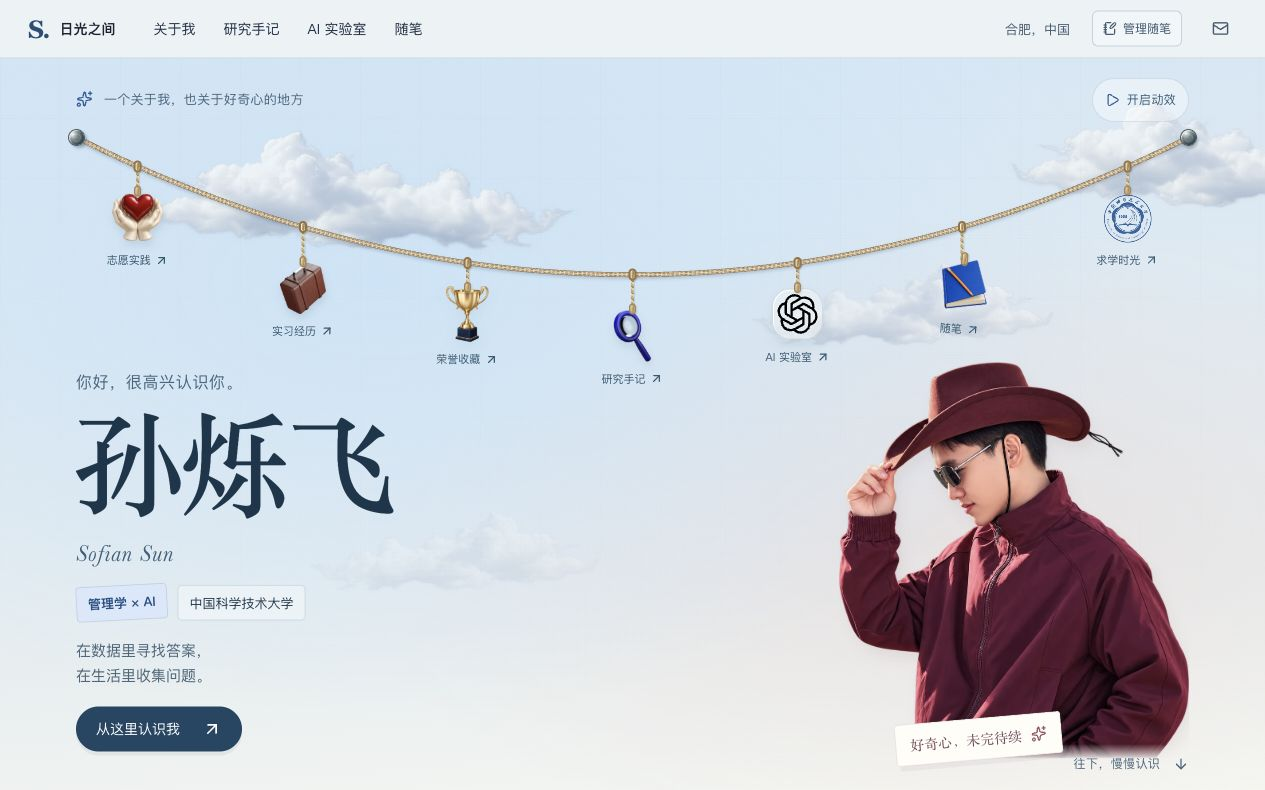
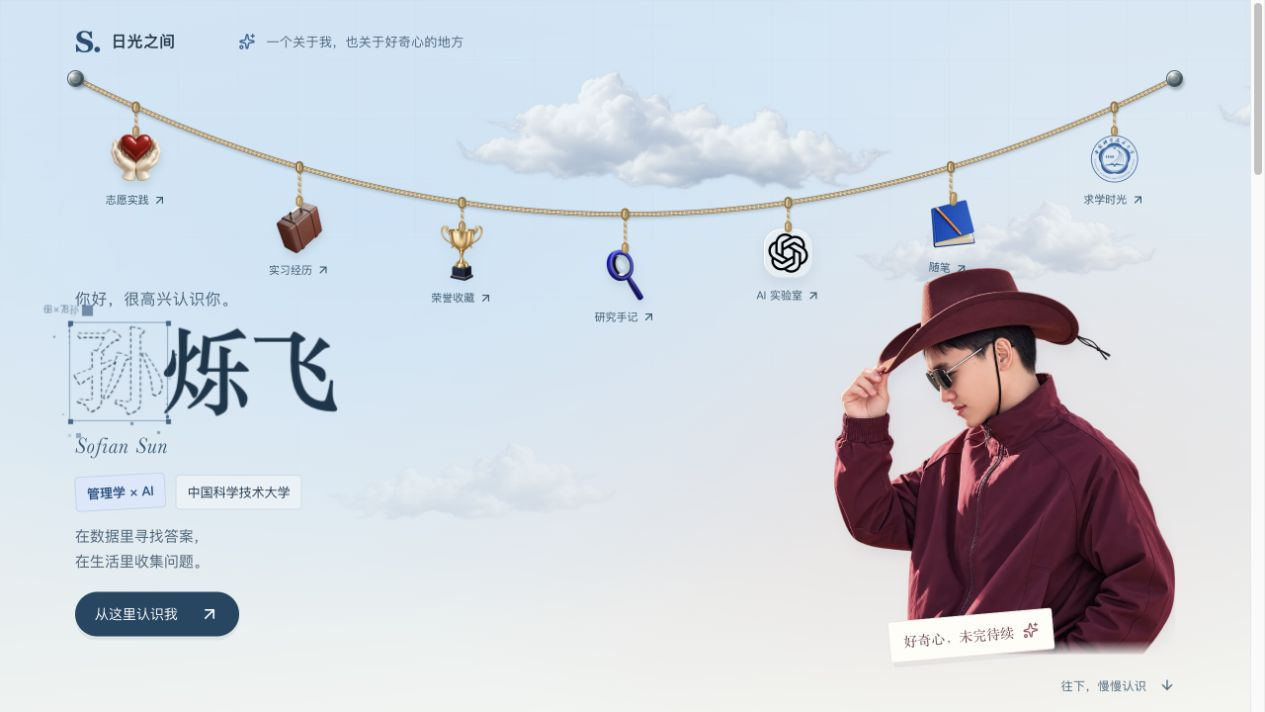
Refine homepage scenes, snap scrolling and journal writing entrance

diff --git a/app/home-scene.tsx b/app/home-scene.tsx
@@ -4,6 +4,7 @@ import {ArrowDown,ArrowUpRight,BookOpen,ChevronRight,FlaskConical,Sparkles,UserR
 import {labProjects} from "./project-data";
 import TechText from "@/components/TechText";
 import SkyScene from "@/components/SkyScene";
+import Link from "@/components/SectionLink";
 import {useMotionPreferences} from '@/components/MotionPreferences';
 import "./home-scene.css";
 
@@ -26,9 +27,8 @@ export default function HomeScene({open}:{open:(id:string,project?:string)=>void
  const {disabled}=useMotionPreferences();
  const paused=disabled;
  const pausedRef=useRef(paused);
- pausedRef.current=paused;
  const controlRef=useRef<()=>void>(()=>{});
- useEffect(()=>{controlRef.current();},[paused]);
+ useEffect(()=>{pausedRef.current=paused;controlRef.current();},[paused]);
  useEffect(()=>{
   let cancelled=false;let dispose=()=>{};
   async function setup(){
@@ -103,8 +103,8 @@ export default function HomeScene({open}:{open:(id:string,project?:string)=>void
   <section className="home-hero" aria-label="认识孙烁飞">
    <SkyScene paused={paused}/>
    <div className="scene-paper-grid" aria-hidden="true"/>
-   <div className="hero-topline"><span><Sparkles size={17}/>一个关于我，也关于好奇心的地方</span></div>
-    <div className="orbit-wire"><svg className="scene-orbit-line" viewBox="0 0 1260 300" fill="none" aria-hidden="true">
+   <div className="hero-topline"><Link className="brand hero-brand" href="/" aria-label="日光之间首页"><span className="brand-mark">S.</span><b>日光之间</b></Link><span className="hero-tagline"><Sparkles size={17}/>一个关于我，也关于好奇心的地方</span></div>
+    <div className="orbit-wire"><svg className="scene-orbit-line" viewBox="0 0 1260 300" preserveAspectRatio="none" fill="none" aria-hidden="true">
      <defs><filter id="cord-shadow" x="-10%" y="-20%" width="120%" height="150%"><feDropShadow dx="0" dy="2" stdDeviation="1.7" floodColor="#24435c" floodOpacity=".24"/></filter></defs>
      <g filter="url(#cord-shadow)"><path d={cordPath} stroke="#8b7351" strokeWidth="5.5"/><path d={cordPath} stroke="#e2cdab" strokeWidth="4"/><path d={cordPath} stroke="#aa8d66" strokeWidth="3.5" strokeDasharray="1 4"/><path d={cordPath} stroke="#f0e1c8" strokeWidth=".8"/></g>
     </svg><span className="cord-nail cord-nail-left" aria-hidden="true"/><span className="cord-nail cord-nail-right" aria-hidden="true"/>
@@ -137,11 +137,12 @@ export default function HomeScene({open}:{open:(id:string,project?:string)=>void
    <nav className="journey-links journey-links-main" aria-label="求学、工作与研究经历">{paths.slice(0,5).map(renderJourneyLink)}</nav>
    <nav className="journey-links journey-extra" aria-label="AI 作品与随笔">{paths.slice(5).map(renderJourneyLink)}</nav>
   </section>
-  <section className="home-work" aria-labelledby="home-work-title">
+  <section className="home-work" id="works" aria-labelledby="home-work-title">
    <header className="home-section-header"><div><span className="section-kicker"><FlaskConical size={17}/>AI 实验室</span><h2 id="home-work-title">把想法，做成作品。</h2></div><button className="home-inline-link" onClick={()=>open("projects")}>全部 6 个项目 <ArrowUpRight size={18}/></button></header>
    <div className="home-projects">{labProjects.slice(0,3).map(p=><button key={p.id} className="home-project" data-project={p.id} onClick={()=>open("projects",p.id)}><div className="home-project-image"><img src={p.cover} alt={`${p.name}工作流`} loading="lazy"/></div><div className="home-project-name"><h3>{p.name}</h3><ArrowUpRight size={22}/></div><p>{p.summary}</p></button>)}</div>
   </section>
-  <section className="home-journal" aria-labelledby="home-journal-title"><div className="journal-portrait"><div className="journal-portrait-motion"><img src="/assets/home-v2/avatar-front.webp" alt="孙烁飞的正面插画头像" width={581} height={640}/><span className="journal-handwriting">记录，也是一种探索。</span></div></div><div className="home-journal-copy"><span className="section-kicker"><BookOpen size={17}/>随笔</span><h2 id="home-journal-title">给生活和想法，<br/>留一点空白。</h2><p>研究之外，也想记下阅读、旅行和日常里那些值得停一停的瞬间。</p><a className="home-inline-link" href="/notes">翻翻我的随笔 <ChevronRight size={19}/></a></div></section>
+  <section className="home-journal" id="journal" aria-labelledby="home-journal-title"><div className="journal-portrait"><div className="journal-portrait-motion"><img src="/assets/home-v2/avatar-front.webp" alt="孙烁飞的正面插画头像" width={581} height={640}/><span className="journal-handwriting">记录，也是一种探索。</span></div></div><div className="home-journal-copy"><span className="section-kicker"><BookOpen size={17}/>随笔</span><h2 id="home-journal-title">给生活和想法，<br/>留一点空白。</h2><p>研究之外，也想记下阅读、旅行和日常里那些值得停一停的瞬间。</p><Link className="home-inline-link" href="/notes">翻翻我的随笔 <ChevronRight size={19}/></Link></div>
   <footer className="home-page-footer"><span>日光之间 · 记录好奇，慢慢生长</span><a href="mailto:sunshuofei@mail.ustc.edu.cn">聊点有意思的 <ArrowUpRight size={16}/></a></footer>
+  </section>
  </div>;
 }

diff --git a/app/home-scene.css b/app/home-scene.css
@@ -138,3 +138,66 @@
  .hero-description{font-size:15px}
  .hero-primary{font-size:14px;padding:12px 18px}
 }
+
+/* Brand and introduction share the sky; no separate homepage navigation bar. */
+.home-hero{min-height:100svh}
+.hero-topline{position:relative;z-index:5;justify-content:flex-start;align-items:center;min-height:44px;gap:clamp(36px,5vw,80px)}
+.hero-brand{min-height:44px;font-size:16px;color:#18374c;flex-shrink:0}
+.hero-brand .brand-mark{font-size:30px;color:#234e78}
+.hero-topline>.hero-tagline{padding-top:0;min-width:0}
+.hero-tagline svg{flex-shrink:0}
+@media(max-width:800px){
+ .home-hero{min-height:0}
+ .hero-topline{gap:18px;width:100%}
+ .hero-brand{font-size:13px;gap:8px}
+ .hero-brand .brand-mark{font-size:26px}
+ .hero-topline>.hero-tagline{padding-top:0;margin-left:0;max-width:230px;font-size:11px;line-height:1.7;gap:7px}
+}
+@media(max-width:420px){.hero-topline{gap:14px}.hero-topline>.hero-tagline{font-size:10px}}
+
+/* Complete scenes share the window; the browser owns scroll momentum and snapping. */
+@media(min-width:801px) and (min-height:600px){
+ html[data-home-snap="true"]{scroll-snap-type:y mandatory;scroll-behavior:smooth}
+ .home-scene>section{height:100svh;min-height:100svh;scroll-snap-align:start;scroll-snap-stop:always}
+ .home-hero{padding-top:20px;padding-bottom:42px;gap:12px}
+ .hero-main{padding-top:clamp(160px,25svh,265px);min-height:0}
+ .hero-orbit .hero-figure{width:84%;max-width:min(455px,48svh)}
+ .hero-name h1{font-size:clamp(74px,13svh,142px)}
+ .hero-name h1>.hero-roman{font-size:clamp(21px,3.2svh,28px);margin:8px 0 14px}
+ .hero-greeting{font-size:clamp(14px,2.2svh,19px);margin-bottom:10px}
+ .hero-identity{margin-bottom:14px;font-size:13px}
+ .hero-description{font-size:15px;line-height:1.7;margin-bottom:18px}
+ .home-journey,.home-work,.home-journal{max-width:none;padding:clamp(32px,6.5svh,76px) max(6%,calc((100vw - 1260px)/2))}
+ .home-journey{grid-template-columns:minmax(0,1fr) minmax(0,1.13fr);grid-template-rows:minmax(0,1fr) auto;column-gap:clamp(36px,6vw,110px);row-gap:24px;align-items:stretch}
+ .home-scene h2{font-size:clamp(32px,5.6svh,52px);line-height:1.35;margin-bottom:clamp(16px,2.6svh,28px)}
+ .section-kicker{margin-bottom:clamp(14px,2.8svh,25px)}
+ .journey-copy{align-self:start;min-width:0}
+ .journey-copy>p{max-width:440px;font-size:clamp(13px,1.9svh,16px);line-height:1.85;margin-bottom:clamp(16px,2.7svh,30px)}
+ .journey-links{padding-top:0;display:grid;min-width:0}
+ .journey-links-main{grid-template-rows:repeat(5,minmax(0,1fr))}
+ .journey-extra{grid-template-rows:repeat(2,minmax(0,1fr))}
+ .journey-links>button{min-height:0;padding:clamp(16px,2.8svh,28px) 0;gap:clamp(14px,1.7vw,24px)}
+ .journey-links strong{font-size:clamp(21px,3.2svh,28px)}
+ .journey-links>button>span:nth-child(2)>span{font-size:clamp(12px,1.8svh,14px);line-height:1.6}
+ .home-work{display:flex;flex-direction:column;justify-content:center;gap:clamp(24px,5svh,48px)}
+ .home-section-header{margin:0;flex-shrink:0}
+ .home-section-header h2{margin:0}
+ .home-projects{gap:clamp(18px,2.2vw,32px)}
+ .home-project-image{max-height:40svh}
+ .home-project-name{padding-top:clamp(14px,2.5svh,22px)}
+ .home-project-name h3{font-size:clamp(21px,3.2svh,27px)}
+ .home-project>p{font-size:clamp(12px,1.9svh,14px);line-height:1.8;margin-top:12px}
+ .home-journal{grid-template-rows:minmax(0,1fr) auto;column-gap:clamp(36px,6vw,80px);row-gap:24px}
+ .journal-portrait{width:100%;max-width:min(370px,48svh);margin:0 auto;padding:0 24px 30px}
+ .home-journal-copy>p{max-width:440px}
+ .home-page-footer{grid-column:1 / -1;width:100%;max-width:none;margin:0;padding:22px 0 0;align-self:end}
+}
+/* Content remains readable on phones, short windows and magnified layouts. */
+@media(max-width:800px), (max-height:599px){
+ .home-page-footer{width:100%;max-width:none;grid-column:1 / -1;margin:0;padding:24px 0 0}
+}
+@media(prefers-reduced-motion:reduce){html[data-home-snap="true"]{scroll-behavior:auto}}
+@media(min-width:801px) and (min-height:600px) and (max-height:699px){
+ .orbit-wire{height:190px;aspect-ratio:auto}
+ .hero-footer{left:50%;right:auto;translate:-50% 0}
+}

diff --git a/app/desktop.tsx b/app/desktop.tsx
@@ -1,27 +1,23 @@
 "use client";
 import { useEffect } from "react";
 import { useRouter } from "next/navigation";
-import Link from "@/components/SectionLink";
-import { Mail } from "lucide-react";
 import HomeScene from "./home-scene";
 import { personalSections, sectionHref } from "./section-navigation";
 import useSectionTools from "@/components/useSectionTools";
-import ManageNotesLink from '@/components/ManageNotesLink';
 
 export default function Desktop() {
   const router = useRouter();
   useSectionTools();
+  useEffect(() => {
+    document.documentElement.dataset.homeSnap = "true";
+    return () => { delete document.documentElement.dataset.homeSnap; };
+  }, []);
   useEffect(() => {
     const id = location.hash.slice(1);
     // Preserve links from the earlier desktop-window edition.
     if (personalSections.some(s => s.id === id)) router.replace(sectionHref(id));
   }, [router]);
   return <main className="desktop">
-    <header className="menubar">
-      <Link className="brand" href="/"><span className="brand-mark">S.</span><b>日光之间</b></Link>
-      <nav aria-label="主导航">{["about", "research", "projects", "notes"].map(id => <Link key={id} href={sectionHref(id)}>{personalSections.find(s => s.id === id)!.label}</Link>)}</nav>
-      <div className="menu-right"><span>合肥，中国</span><ManageNotesLink compact/><a href="mailto:sunshuofei@mail.ustc.edu.cn" aria-label="给烁飞发邮件"><Mail size={17}/></a></div>
-    </header>
     <HomeScene open={(id, project) => router.push(sectionHref(id, project))}/>
   </main>;
 }

diff --git a/app/notes/page.tsx b/app/notes/page.tsx
@@ -1,4 +1,5 @@
+import Link from "@/components/SectionLink";
 import NotesList from "../notes-list";
 import ManageNotesLink from "@/components/ManageNotesLink";
 export const metadata={title:"随笔 · 日光之间"};
-export default function Notes(){return <main className="journal-page"><header className="journal-nav"><a href="/" className="journal-brand"><img className="journal-avatar" src="/assets/home-v2/avatar-front.webp" alt="孙烁飞的插画头像"/>日光之间</a><ManageNotesLink/></header><section className="journal-container"><div className="journal-title"><span className="handwriting">Notes to self.</span><p className="eyebrow">SUNLIT NOTES</p><h1>随笔，不必成章。</h1><p>给生活、阅读和没想完的问题，留一点空白。</p><span className="journal-stamp">慢慢写<br/>慢慢想</span></div><NotesList/><footer className="journal-footer"><span>持续生长中的笔记本。</span><a href="/">回到首页</a></footer></section></main>;}
+export default function Notes(){return <main className="journal-page"><section className="journal-container"><div className="journal-title"><span className="handwriting">Notes to self.</span><p className="eyebrow">SUNLIT NOTES</p><h1>随笔，不必成章。</h1><p>给生活、阅读和没想完的问题，留一点空白。</p><ManageNotesLink stamp/></div><NotesList/><footer className="journal-footer"><span>持续生长中的笔记本。</span><Link href="/">回到首页</Link></footer></section></main>;}

diff --git a/app/globals.css b/app/globals.css
@@ -40,3 +40,16 @@ html[data-motion="off"] :is(.hero-title-line,.hero-figure,.scene-object,.hero-fo
 html[data-motion="off"] :is(.hero-title,.scene-depth,.scene-drift) { transform:none!important; }
 html[data-page-visible="false"] .home-scene *, html[data-page-visible="false"] .home-scene *::before, html[data-page-visible="false"] .home-scene *::after { animation-play-state:paused!important; }
 @media(max-width:800px){.hero-topline{gap:12px}}
+
+/* The journal's paper stamp is also its writing entrance. */
+.journal-write-link{cursor:pointer;transition:transform .2s,rotate .2s,background .2s,box-shadow .2s}
+.journal-write-link:hover{rotate:4deg;transform:translateY(-3px);background:#e8f0fc;box-shadow:6px 7px 0 #316fc114}
+.journal-write-link:focus-visible{outline:3px solid #316fc1;outline-offset:6px}
+@media(max-width:650px){
+ .journal-title{display:grid;grid-template-columns:minmax(0,1fr) 76px;column-gap:12px;padding-right:0}
+ .journal-title>*{grid-column:1 / -1}
+ .journal-title>.handwriting{grid-column:1;grid-row:1;font-size:25px;margin-bottom:20px}
+ .journal-title>.eyebrow{grid-column:1;grid-row:2}
+ .journal-title>.journal-write-link{display:grid;position:relative;right:auto;top:auto;grid-column:2;grid-row:1 / span 2;justify-self:end;align-self:start;width:68px;height:78px;font-size:17px;line-height:1.6;rotate:7deg;margin:3px 4px 0 0}
+ .journal-title>.journal-write-link:hover{rotate:3deg}
+}

diff --git a/components/ManageNotesLink.tsx b/components/ManageNotesLink.tsx
@@ -1,3 +1,6 @@
 import {NotebookPen} from 'lucide-react';
 import '@/app/admin/admin.css';
-export default function ManageNotesLink({compact=false}:{compact?:boolean}){return <a href="/admin/login" className={compact?'admin-manage-link':'quiet-link admin-note-link'}><NotebookPen size={16}/>管理随笔</a>;}
+export default function ManageNotesLink({compact=false,stamp=false}:{compact?:boolean;stamp?:boolean}){
+ if(stamp)return <a href="/admin/login?next=/studio" className="journal-stamp journal-write-link" aria-label="慢慢写，慢慢想 · 管理随笔" title="登录后开始写作">慢慢写<br/>慢慢想</a>;
+ return <a href="/admin/login" className={compact?'admin-manage-link':'quiet-link admin-note-link'}><NotebookPen size={16}/>管理随笔</a>;
+}

diff --git a/docs/implementation.md b/docs/implementation.md
@@ -18,7 +18,7 @@
 
 ## 写作工作室（独立服务器版本）
 
-首页右上角与随笔页均有“管理随笔”入口。`/admin/login` 使用独立管理员账号，`/studio` 为图文写作空间；访客可以阅读公开文章，不能注册、编辑或上传。首次使用通过 `/admin/setup` 与本机一次性初始化密钥创建账号，不依赖 ChatGPT 登录或旧平台身份请求头。
+随笔页的“慢慢写，慢慢想”纸便签是管理入口。`/admin/login` 使用独立管理员账号，`/studio` 为图文写作空间；访客可以阅读公开文章，不能注册、编辑或上传。首次使用通过 `/admin/setup` 与本机一次性初始化密钥创建账号，不依赖 ChatGPT 登录或旧平台身份请求头。
 
 编辑器支持标题、加粗、斜体、列表、引用、代码、链接、正文图片、图片说明、替代文字、居中小图、封面与预览。图片可选择、粘贴或拖入。Word `.docx` 通过 Mammoth 导入正文、标题、格式和插图；Markdown/TXT 导入正文；PDF 保留原稿，正文可另外补充。单个图片或原稿最大 10 MB。Word 的复杂表格等布局需要检查后调整。
 
@@ -105,6 +105,10 @@ node scripts/migrate-legacy.mjs import --from /导出目录 --data /数据目录
 首页与全屏页面的动态效果遵从系统减少动态设置，不再提供手动暂停按钮，也不再读取旧版手动暂停偏好。保留慢升人像、淡入头像、悬挂轻摆、云层和全站流体光迹；后台标签暂停，管理与写作页不运行装饰效果。横屏/低高度侧边导航可滚动，项目详情写入 URL，刷新与浏览器返回能恢复。
 
 求学时间线包含中国科学技术大学、东北大学秦皇岛分校与河北正定中学三段经历，使用学校官方标识；来源记录保存在 `public/assets/schools/README.md`。求学页不展示课程成绩或跳转荣誉收藏的按钮。
+
+桌面首页四个场景使用原生 CSS Scroll Snap，宽度至少 801 px、窗口高度至少 600 px 时每屏按 100svh 排版，松手后停在完整场景；支持锚点和键盘滚动，切换到独立内容页时清理吸附状态。经历屏的左右导航共用同一网格底边，页脚融入最后的随笔屏。手机、矮窗口与放大后低于断点的布局采用自然滚动，减少动态设置关闭平滑过渡。
+
+首页不再渲染独立顶栏，`S. 日光之间` 与右移的介绍语直接置于天空画面顶部。随笔列表页去掉第二层顶栏，保留全屏板块导航；“慢慢写，慢慢想”便签链接至 `/admin/login?next=/studio`，手机端亦保留该入口。管理页面继续使用原有认证和 IP 只读预览限制。
 
 `deploy/sunlit-web.service` 仅监听回环地址，开机自动启动、崩溃重启；独立 Node 24 运行环境不替换服务器系统 Node。`deploy/sunlit-backup.timer` 每日北京时间 03:20 触发，补跑错过的任务。`deploy/backup.py` 用 SQLite 在线备份制作一致快照，校验数据库、上传文件和程序包 SHA-256；每份快照包含数据库、完整 uploads、初始化密钥、配置、源码、静态素材、Linux 构建和依赖。相同程序包只保存一份，通过备份目录内硬链接复用空间。不自动删除历史。备份目录包含敏感资料，需以 700/600 权限保管。
 

diff --git a/docs/media/README.md b/docs/media/README.md
@@ -5,10 +5,16 @@
 | 文件 | 来源与范围 |
 | --- | --- |
 | `cover.svg` | 为本仓库编写的矢量封面，沿用网站的天空蓝、暖白和深蓝配色。 |
-| `home-desktop.jpg` | 2026-10-11，通过真实浏览器截取当前服务器首页；暂时暂停动效以取得完整、稳定的画面。 |
+| `home-desktop.jpg` | 2026-10-11，本次本地真实浏览器首页截图，1280 × 720；动效正常运行。 |
 | `ai-lab.jpg` | 同日截取当前服务器 AI 实验室，展示前两个科研工具项目的实际列表。 |
-| `notes.jpg` | 同日截取当前服务器随笔页。列表中的文章为初始样例，并保留页面的样例标记。 |
+| `notes.jpg` | 2026-10-11，本次本地真实浏览器随笔页截图，1280 × 720；列表文章为初始样例，保留样例标记。 |
 | `writing-studio.jpg` | 同日截取本地独立数据目录的演示工作室。`sunlit_demo` 为演示账号，正文为展示排版而写的样例；未使用正式管理员、文章或附件。 |
-| `home-mobile.jpg` | 2026-10-11 的公网 IP 手机尺寸验收截图，390 × 844。 |
+| `home-mobile.jpg` | 2026-10-11，本次本地真实浏览器手机首页截图，390 × 844。 |
 
 演示数据库和凭据仅保存在项目 `work/`，不随源码发布。页面截图保留原始画面，没有用概念设计图代替实际界面。
+
+## 2026-10-11 布局更新
+
+`home-desktop.jpg`、`home-mobile.jpg` 和 `notes.jpg` 已替换为本次相同源码的本地真实浏览器截图（端口 5198），分别为 1280 × 720、390 × 844、1280 × 720；记录首页去顶栏、天空品牌位置及随笔便签入口。截图时动态效果正常运行，未使用手动暂停、模拟 DOM 或合成画面。
+
+`journey.jpg` 与 `home-work.jpg` 为本次新增的 1280 × 720 本地真实浏览器截图，展示左右底边对齐和完整 AI 作品屏。网站按系统窗口比例排版；此前三张图和 README 已保留在项目 `work/header-refinement-2026-10-11/before/`。其他截图继续沿用上表的来源。
